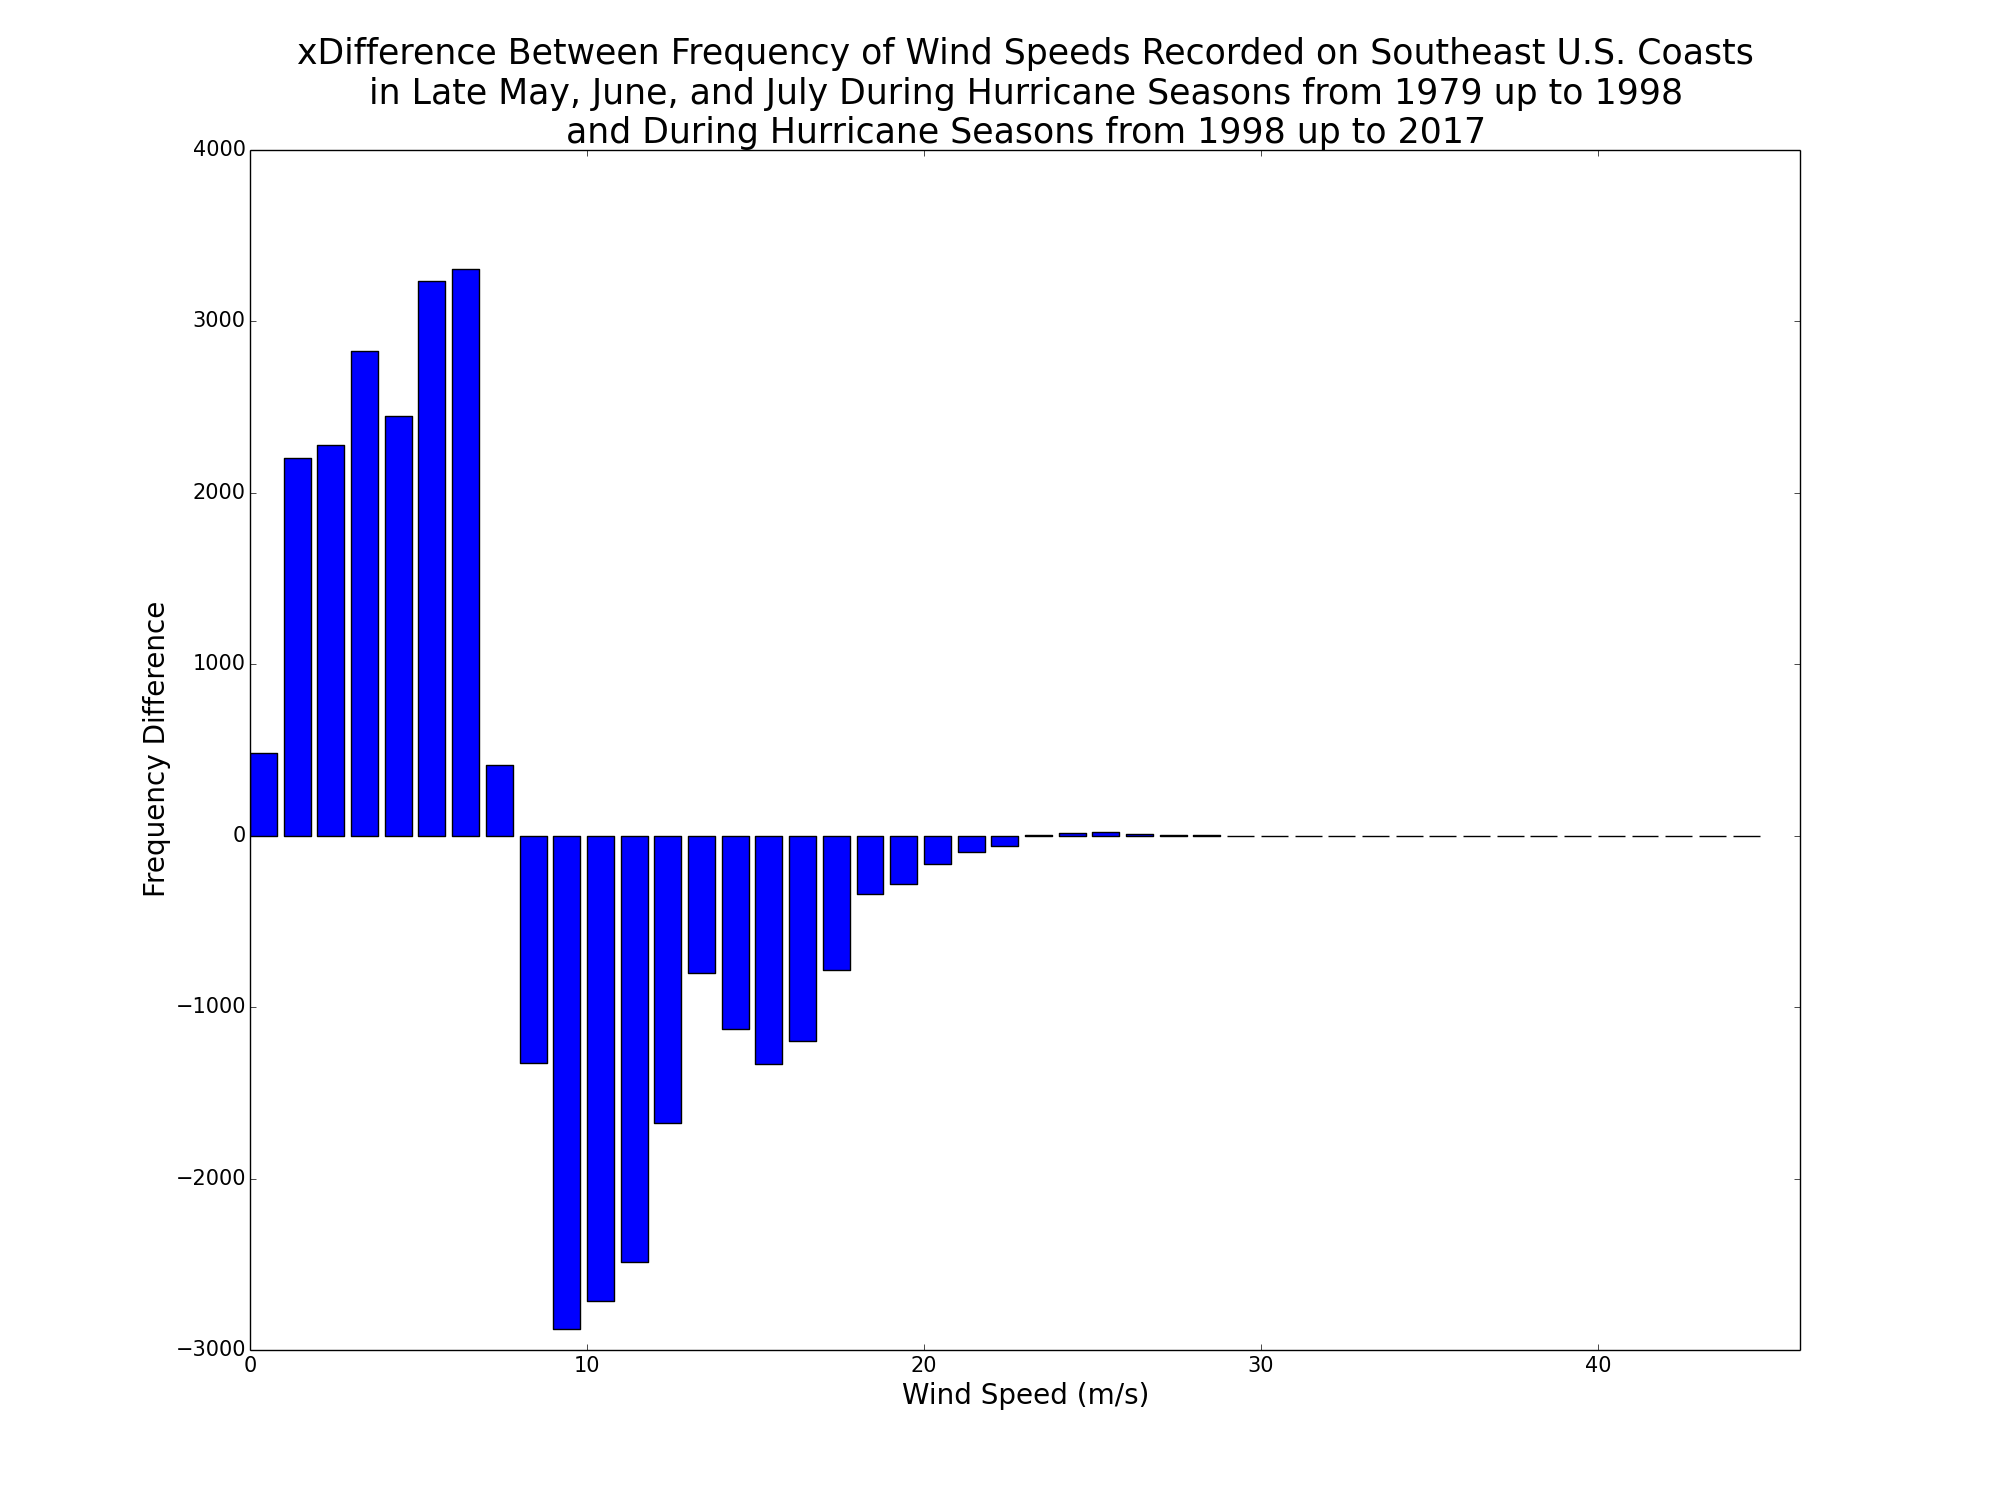
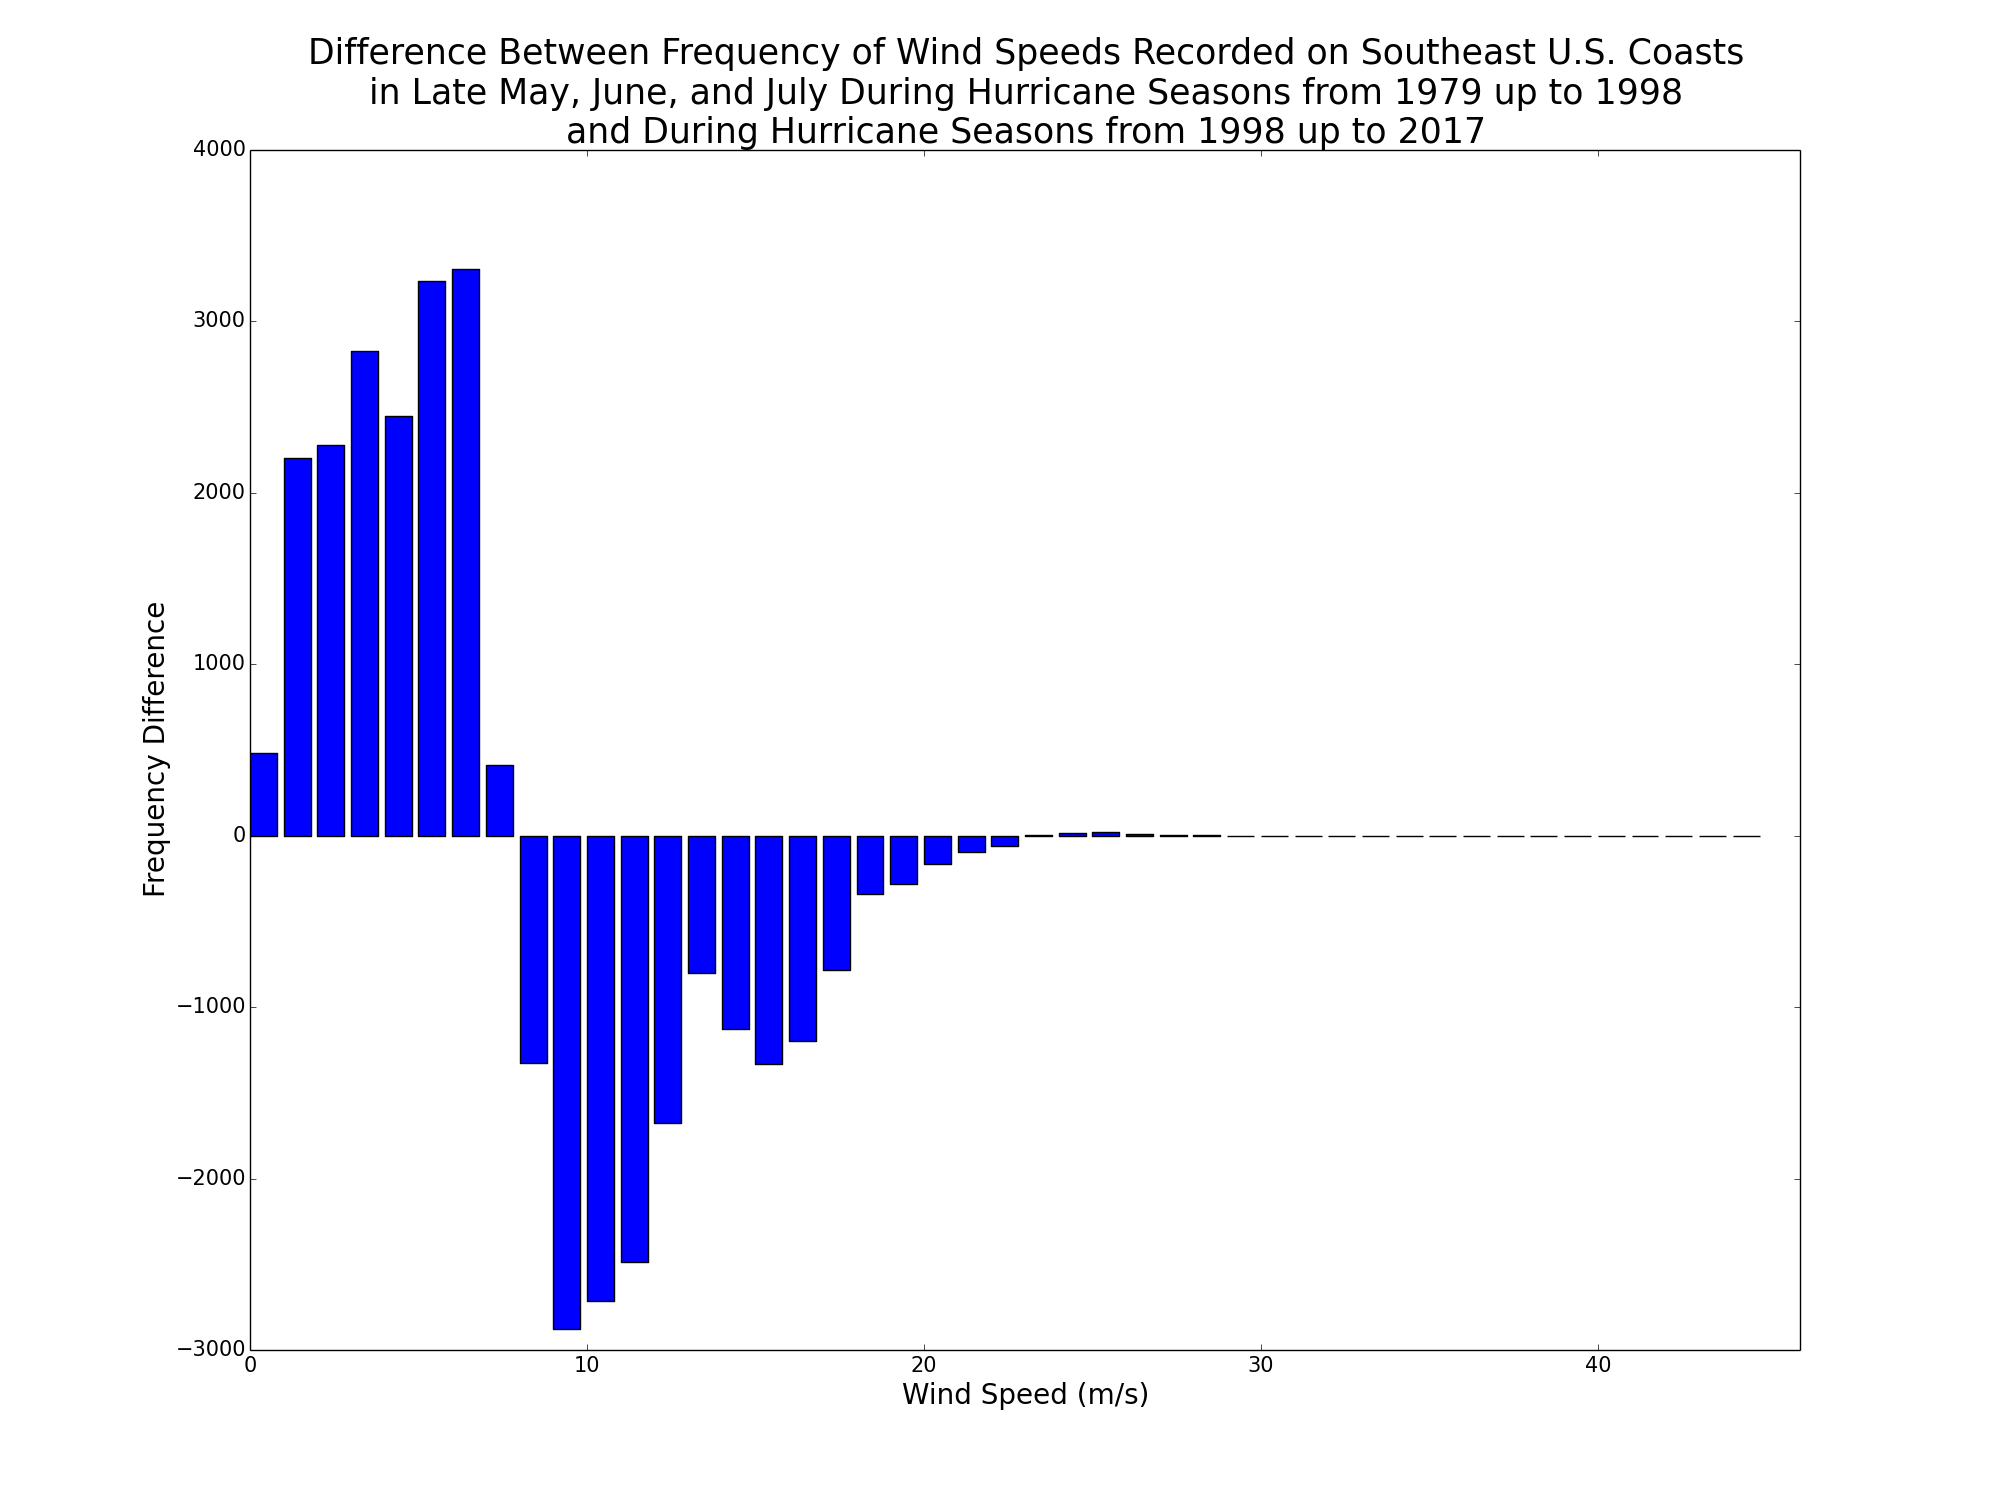
Fixed font sizes on figures for the last time (hopefully)

Changed region(s): [[0.155, 0.0, 0.868, 0.0613]]

diff --git a/DLM_stats.py b/DLM_stats.py
@@ -685,7 +685,7 @@ plt.bar(np.arange(len(wind_speed_freq_diff)), wind_speed_freq_diff)
 plt.xlim(xmax = max_wind_speed + 1)
 plt.ylabel('Frequency Difference')
 plt.xlabel('Wind Speed (m/s)')
-plt.title('xDifference Between Frequency of Wind Speeds Recorded on\n' + location_names[region][1] +
+plt.title('Difference Between Frequency of Wind Speeds Recorded on\n' + location_names[region][1] +
           ' During Hurricane Seasons from 1979 up to\n1998 and During Hurricane ' +
           'Seasons from 1998 up to 2017')
 plt.savefig('Figures/' + location_names[region][0]  + '/Wind_Speeds_' + location_names[region][0] + '_Diff_Between_79-97_and_98-16_Histogram.png')
@@ -865,7 +865,7 @@ plt.xlim(xmax = max_wind_speed + 1)
 #    plt.ylim(ymax = 9000, ymin = -7000)
 plt.ylabel('Frequency Difference')
 plt.xlabel('Wind Speed (m/s)')
-plt.title('xDifference Between Frequency of Wind Speeds Recorded on ' + location_names[region][1] + '\nin Late ' +
+plt.title('Difference Between Frequency of Wind Speeds Recorded on ' + location_names[region][1] + '\nin Late ' +
           'May, June, and July During Hurricane Seasons from 1979 up to 1998\nand During Hurricane ' +
           'Seasons from 1998 up to 2017')
 plt.savefig('Figures/' + location_names[region][0]  + '/Wind_Speeds_' + location_names[region][0] + '_Diff_Between_79-97_and_98-16_EHS_Histogram.png')
@@ -879,7 +879,7 @@ plt.xlim(xmax = max_wind_speed + 1)
 #    plt.ylim(ymax = 9000, ymin = -7000)
 plt.ylabel('Frequency Difference')
 plt.xlabel('Wind Speed (m/s)')
-plt.title('xDifference Between Frequency of Wind Speeds Recorded on ' + location_names[region][1] + '\nin August ' +
+plt.title('Difference Between Frequency of Wind Speeds Recorded on ' + location_names[region][1] + '\nin August ' +
           'and September During Hurricane Seasons from 1979 up to 1998\nand During Hurricane ' +
           'Seasons from 1998 up to 2017')
 plt.savefig('Figures/' + location_names[region][0]  + '/Wind_Speeds_' + location_names[region][0] + '_Diff_Between_79-97_and_98-16_MHS_Histogram.png')
@@ -893,7 +893,7 @@ plt.xlim(xmax = max_wind_speed + 1)
 #    plt.ylim(ymax = 9000, ymin = -7000)
 plt.ylabel('Frequency Difference')
 plt.xlabel('Wind Speed (m/s)')
-plt.title('xDifference Between Frequency of Wind Speeds Recorded on ' + location_names[region][1] + '\nin the Month ' +
+plt.title('Difference Between Frequency of Wind Speeds Recorded on ' + location_names[region][1] + '\nin the Month ' +
           'of August During Hurricane Seasons from 1979 up to 1998\nand During Hurricane ' +
           'Seasons from 1998 up to 2017')
 plt.savefig('Figures/' + location_names[region][0]  + '/Wind_Speeds_' + location_names[region][0] + '_Diff_Between_79-97_and_98-16_Aug_Histogram.png')
@@ -907,7 +907,7 @@ plt.xlim(xmax = max_wind_speed + 1)
 #    plt.ylim(ymax = 9000, ymin = -7000)
 plt.ylabel('Frequency Difference')
 plt.xlabel('Wind Speed (m/s)')
-plt.title('xDifference Between Frequency of Wind Speeds Recorded on ' + location_names[region][1] + '\nin the Month ' +
+plt.title('Difference Between Frequency of Wind Speeds Recorded on ' + location_names[region][1] + '\nin the Month ' +
           'of September During Hurricane Seasons from 1979 up to 1998\nand During Hurricane ' +
           'Seasons from 1998 up to 2017')
 plt.savefig('Figures/' + location_names[region][0]  + '/Wind_Speeds_' + location_names[region][0] + '_Diff_Between_79-97_and_98-16_Sep_Histogram.png')
@@ -921,7 +921,7 @@ plt.xlim(xmax = max_wind_speed + 1)
 #    plt.ylim(ymax = 9000, ymin = -7000)
 plt.ylabel('Frequency Difference')
 plt.xlabel('Wind Speed (m/s)')
-plt.title('xDifference Between Frequency of Wind Speeds Recorded on ' + location_names[region][1] + '\nin October ' +
+plt.title('Difference Between Frequency of Wind Speeds Recorded on ' + location_names[region][1] + '\nin October ' +
           'and November During Hurricane Seasons from 1979 up to 1998\nand During Hurricane ' +
           'Seasons from 1998 up to 2017')
 plt.savefig('Figures/' + location_names[region][0]  + '/Wind_Speeds_' + location_names[region][0] + '_Diff_Between_79-97_and_98-16_LHS_Histogram.png')
